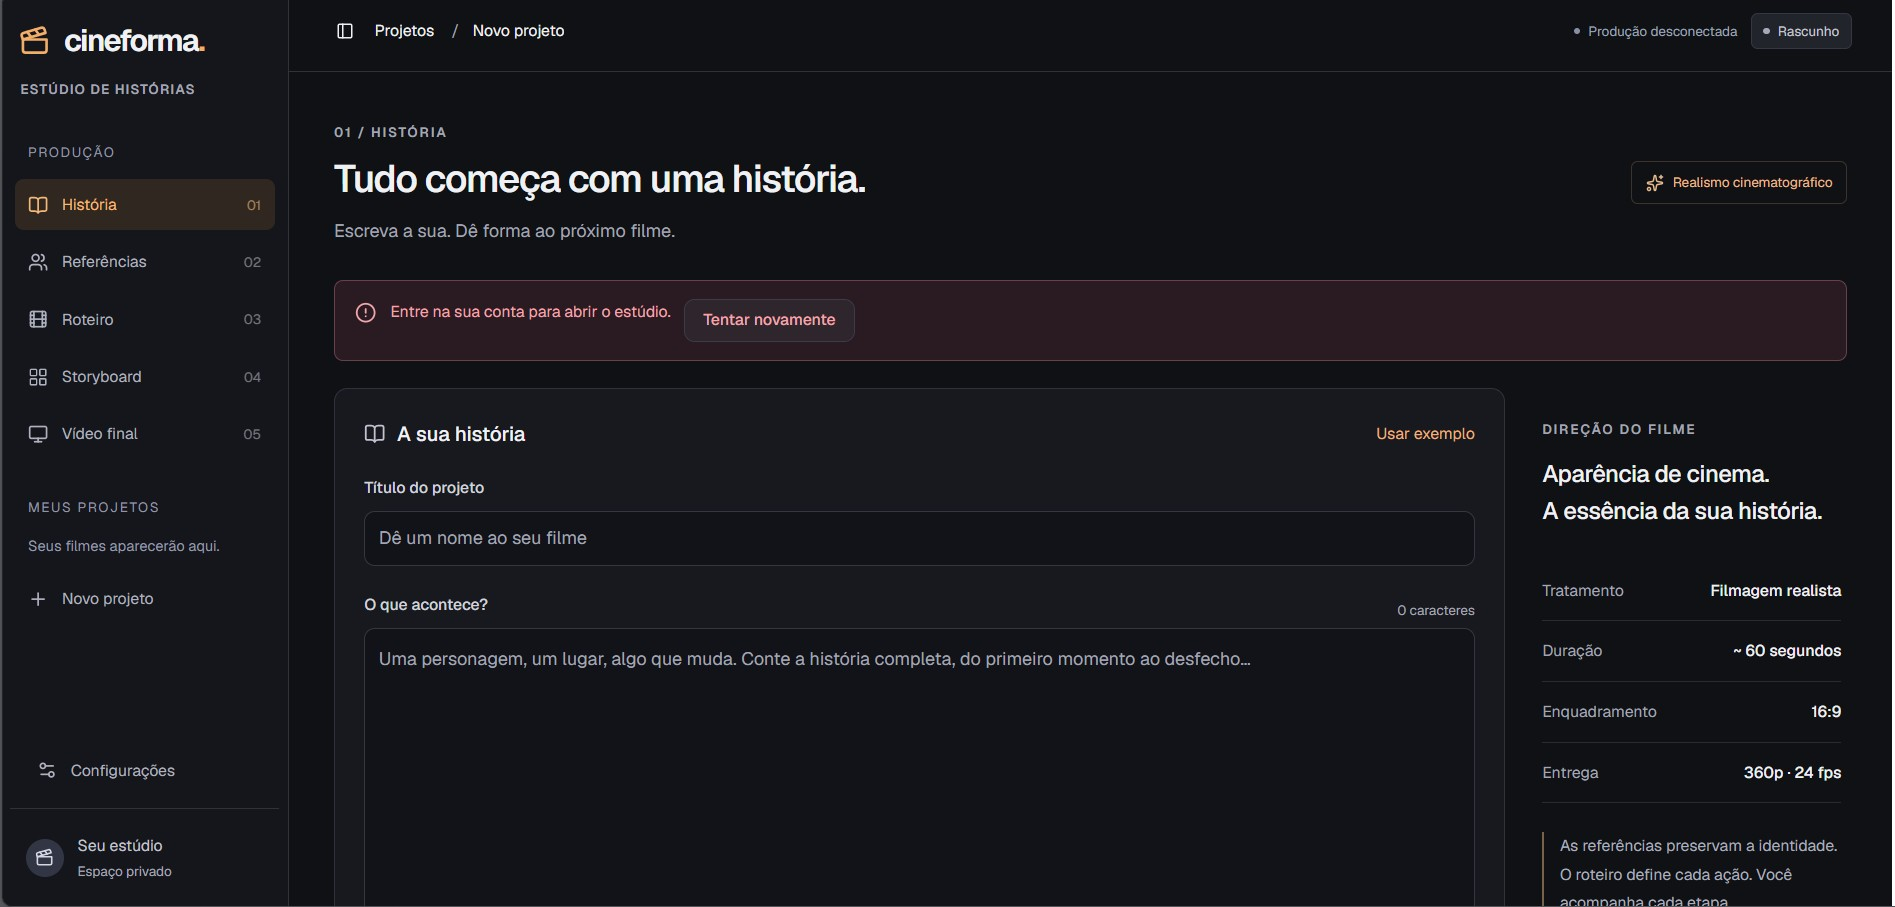
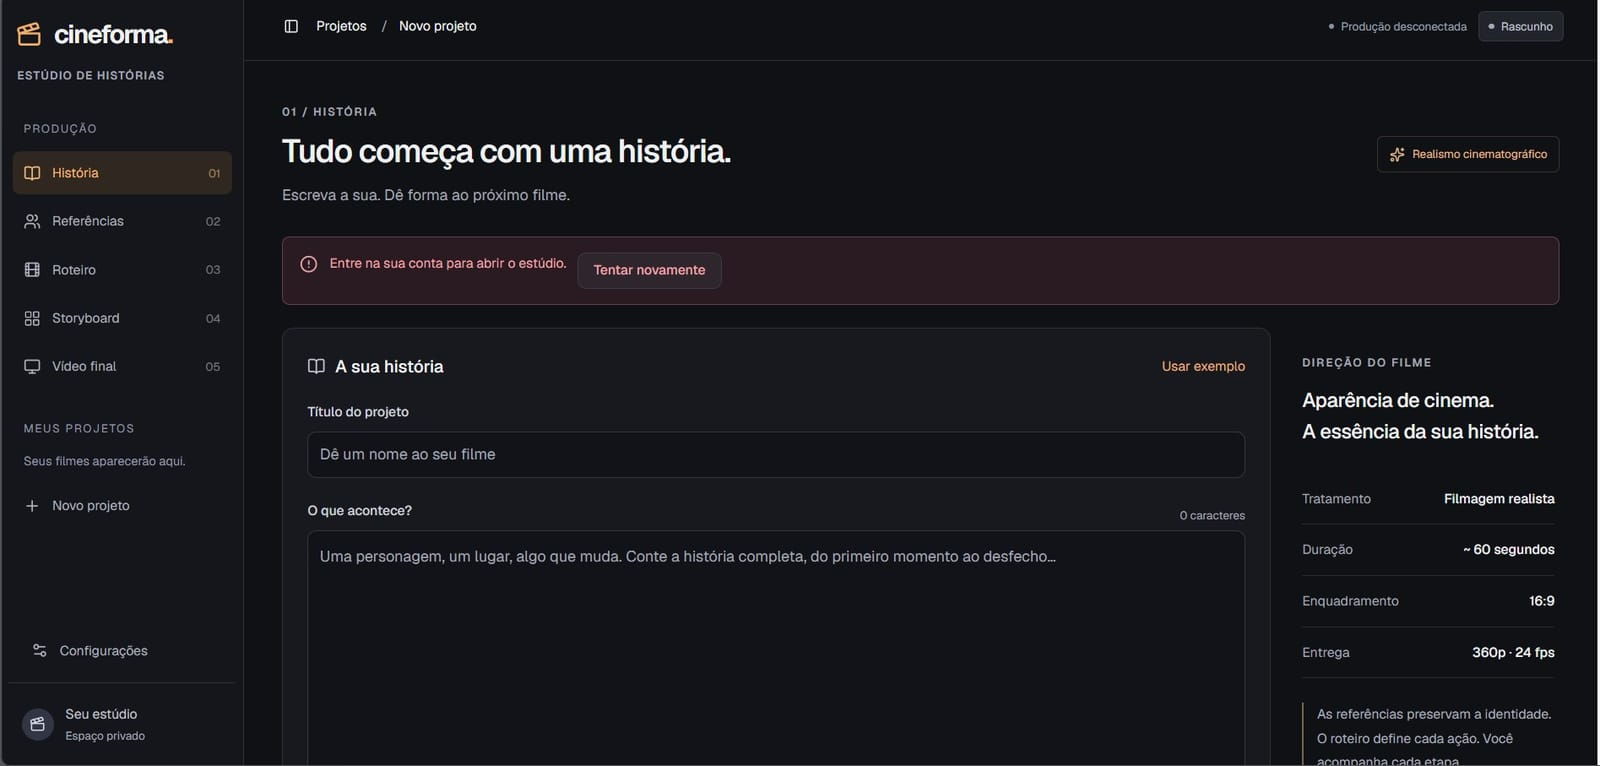
Otimiza imagens, melhora área de toque no celular e atualiza pendências
- Redimensiona (máx. 1600 px) e recomprime os JPGs de public/assets/img: 3,6 MB -> 1,9 MB.
- Chips de sugestão e botões de reiniciar do atendente de demonstração com área de toque maior no celular.
- docs/PENDENCIAS.md: estado do Pages, imagens, celular e teste estático.

Claude-Session: https://claude.ai/code/session_01J2bTBrNC8F7vD4FByoxvuY

diff --git a/src/components/AgentDemo.tsx b/src/components/AgentDemo.tsx
@@ -300,7 +300,7 @@ export function AgentDemo({ onOpenResidentKirana, onNavigate }: KiranaDemoProps)
               </div>
               <button
                 onClick={handleResetChat}
-                className="inline-flex items-center gap-1.5 text-slate-700 hover:text-slate-900 font-semibold text-xs py-1 px-2.5 rounded-md hover:bg-slate-200 transition-colors"
+                className="inline-flex items-center gap-1.5 text-slate-700 hover:text-slate-900 font-semibold text-xs py-2.5 sm:py-1 px-2.5 rounded-md hover:bg-slate-200 transition-colors"
               >
                 <RotateCcw className="w-3.5 h-3.5" />
                 <span>Reiniciar conversa</span>
@@ -327,7 +327,7 @@ export function AgentDemo({ onOpenResidentKirana, onNavigate }: KiranaDemoProps)
               <button
                 onClick={handleResetChat}
                 title="Reiniciar conversa"
-                className="p-2 text-slate-400 hover:text-white rounded-lg hover:bg-white/10 transition-colors"
+                className="p-3 sm:p-2 text-slate-400 hover:text-white rounded-lg hover:bg-white/10 transition-colors"
               >
                 <RotateCcw className="w-4 h-4" />
               </button>
@@ -381,7 +381,7 @@ export function AgentDemo({ onOpenResidentKirana, onNavigate }: KiranaDemoProps)
                   key={i}
                   onClick={() => handleSendMessage(q)}
                   disabled={isLoading}
-                  className="px-2.5 py-1 rounded-full bg-slate-100 hover:bg-blue-50 hover:text-blue-600 text-slate-700 text-[11px] whitespace-nowrap font-medium transition-colors border border-slate-200 shrink-0"
+                  className="px-3 py-2.5 sm:px-2.5 sm:py-1 rounded-full bg-slate-100 hover:bg-blue-50 hover:text-blue-600 text-slate-700 text-xs sm:text-[11px] whitespace-nowrap font-medium transition-colors border border-slate-200 shrink-0"
                 >
                   {q}
                 </button>

diff --git a/docs/PENDENCIAS.md b/docs/PENDENCIAS.md
@@ -121,6 +121,20 @@ documento = ela diz que não tem a informação.
 - showcases no navegador (mesmas respostas), formulário → WhatsApp oficial, atendente indisponível;
 - `testes/pages-estatico.mjs`: **14/14**; dinâmico segue **15/15** e **4/4**.
 
+## E. Atualização de 30/10/2026
+
+- **GitHub Pages:** Source configurado em "GitHub Actions"; o workflow "Publicar no GitHub Pages"
+  (main) foi reexecutado e terminou com sucesso (build e deploy). Antes falhava em
+  `actions/configure-pages` por falta dessa configuração.
+- **Imagens:** os 18 JPGs de `public/assets/img/` foram redimensionados (máx. 1600 px de largura) e
+  recomprimidos (qualidade 80, progressivo): 3,6 MB → 1,9 MB; `out/` foi de 4,7 MB para 2,9 MB.
+- **Celular:** sem rolagem horizontal em 320, 375 e 768 px; chips de sugestão e botões de reiniciar do
+  atendente de demonstração ganharam área de toque maior abaixo de `sm`.
+- **Teste estático** (`CHROME_PATH=... node testes/pages-estatico.mjs`): 1 falha, só de rede — o formulário
+  tenta abrir o WhatsApp e o ambiente de teste não tem acesso externo. Repetir onde o WhatsApp abre.
+- Continuam dependendo de você: as 3 imagens ausentes (seção A), o Windows com o Gateway real (B) e o
+  repositório do Tamagotchi.
+
 ## D. Feito e verificado nesta entrega
 
 - atendimento real ligado (um único botão, mesma aparência);
